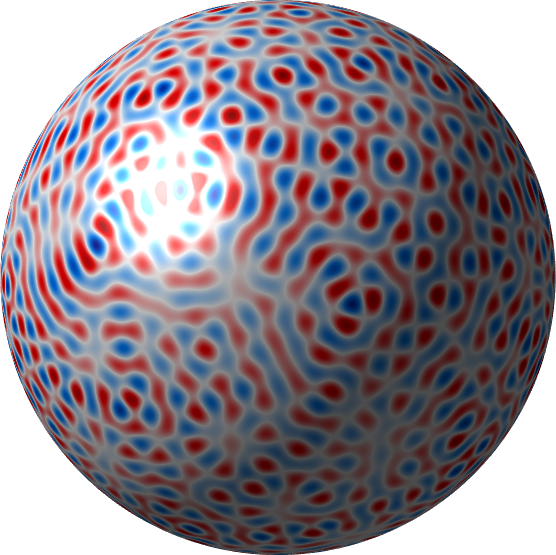
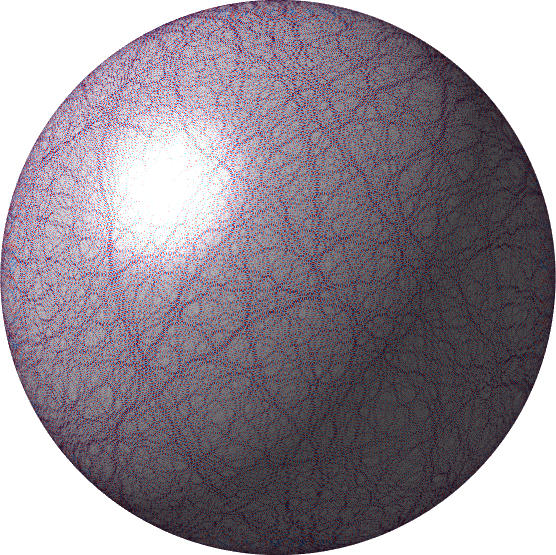
u

diff --git a/gallery.html b/gallery.html
@@ -43,7 +43,7 @@
 				<p> As the frequency parameter &lambda; goes to infinity, the model exhibit a local scaling limit (at scale 1/&lambda;)
 				given by the model of planar random waves. It is a Gaussian process on the plane whose spectral
 				measure is the uniform probability distribution on the unit circle. Despite this local behavior,
-				the picture on the right suggests that the model of spherical random waves may exhibit long-range dependencies. 
+				the picture on the right (simulation of a spherical random wave of frequency &lambda;= 500) suggests that the model of spherical random waves may exhibit long-range dependencies. 
 				</p>
 			</div>
 			<div class="photo-gal">
